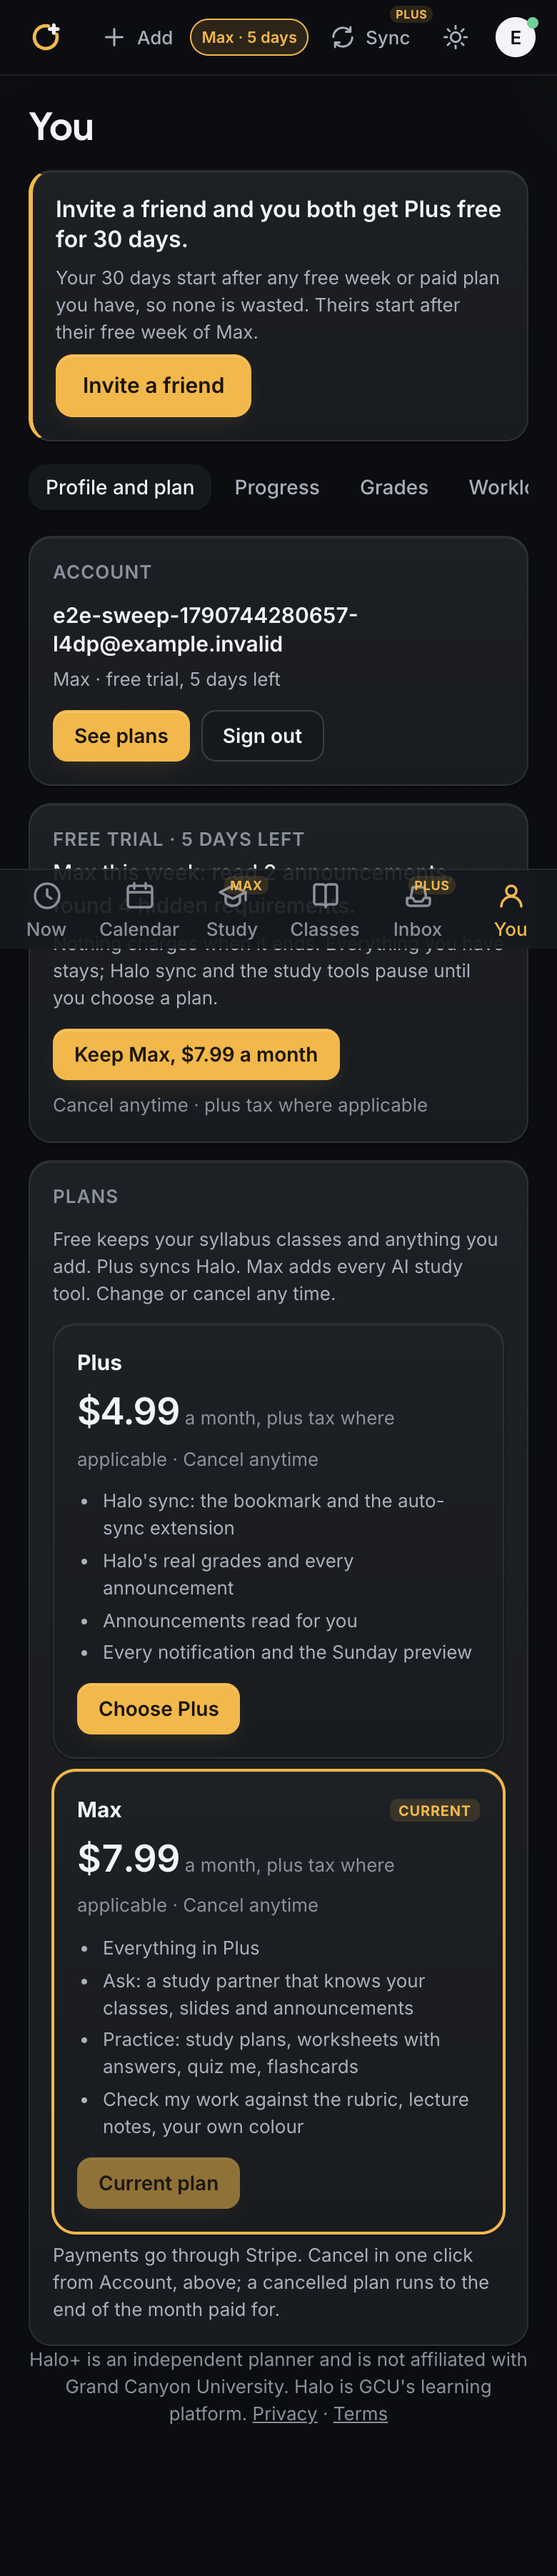
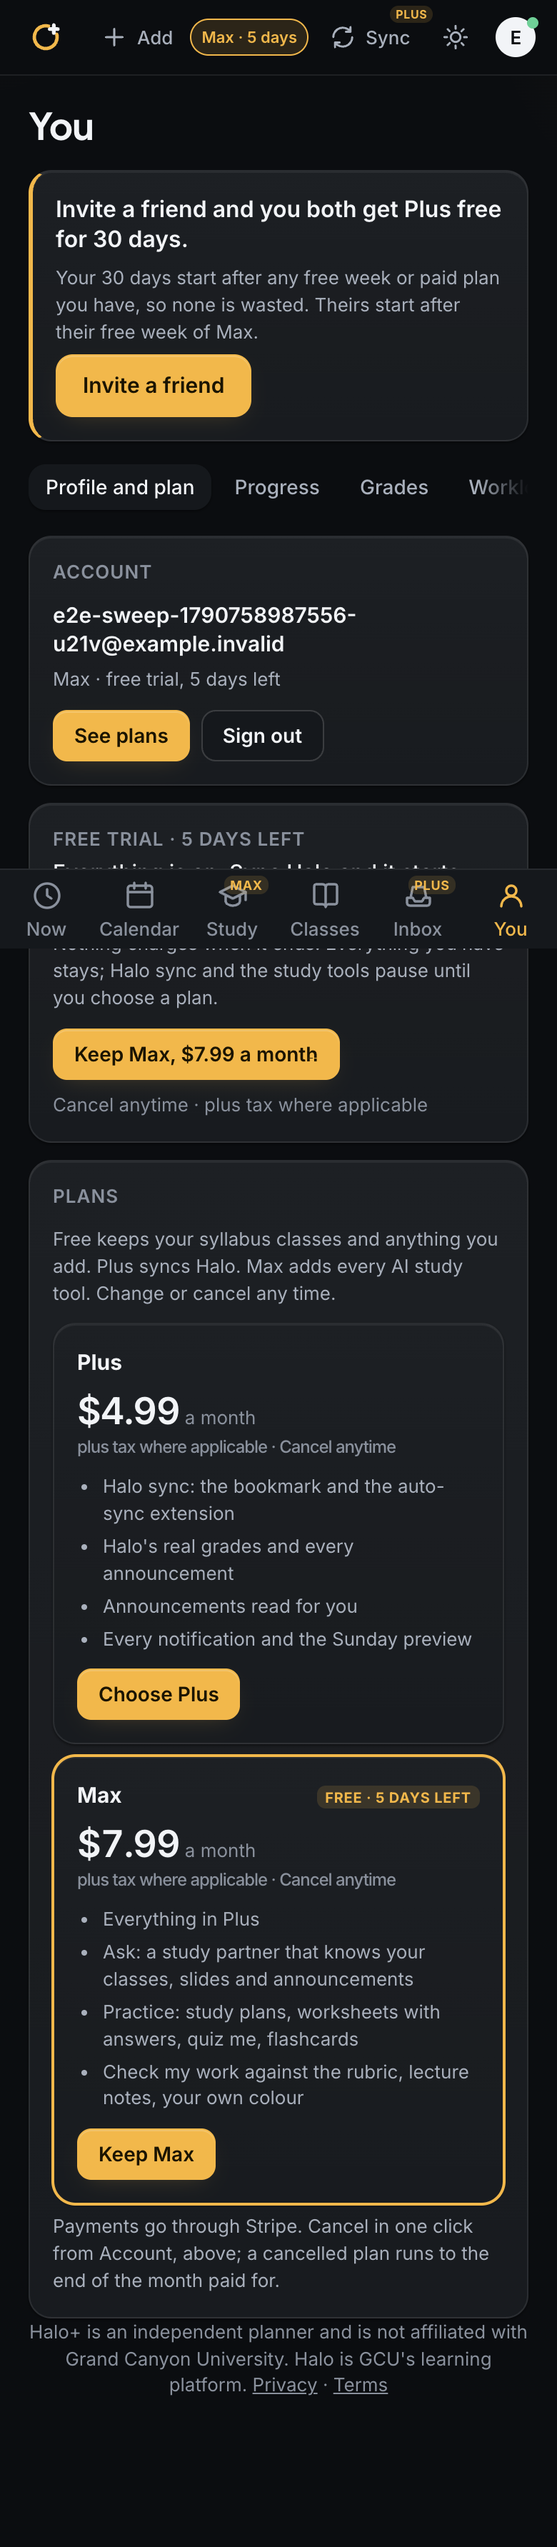
Loop 161: on the free week the Max plan says Free · N days left with Keep Max, not a greyed-out Current plan

diff --git a/src/views/You.tsx b/src/views/You.tsx
@@ -284,7 +284,11 @@ function UsageCard() {
 }
 
 function Plans({ current, highlight }: { current: Tier; highlight: Tier | null }) {
-  const { auth } = useAccount();
+  const { auth, profile } = useAccount();
+  // `current` is what the student has today, which on the free week (or free referral days) is not what they pay for:
+  // that plan is "Free trial", with Keep, never "Current plan" greyed out as if it were already bought.
+  const bought = profile?.tier ?? current;
+  const freeDays = trialDaysLeft(profile) ?? rewardDaysLeft(profile);
   const [interval, setInterval_] = useState<Interval>('month');
   const [busy, setBusy] = useState<string | null>(null);
   const [error, setError] = useState<string | null>(null);
@@ -312,22 +316,25 @@ function Plans({ current, highlight }: { current: Tier; highlight: Tier | null }
       <div className="plans">
         {paid.map((t) => {
           const adds = PLAN_LINES[t];
+          const owned = bought === t;
+          const onFree = !owned && current === t;
           return (
-            <div key={t} className="plan card" data-current={current === t} data-highlight={highlight === t}>
+            <div key={t} className="plan card" data-current={owned || onFree} data-highlight={highlight === t}>
               <div className="grade-head">
                 <b>{TIER_NAMES[t]}</b>
-                {current === t && (
+                {(owned || onFree) && (
                   <span className="plan-badge" data-tier={t}>
-                    Current
+                    {owned ? 'Current' : freeDays ? `Free · ${freeDays} day${freeDays === 1 ? '' : 's'} left` : 'Free for now'}
                   </span>
                 )}
               </div>
               <p className="plan-price">
                 {`$${(PRICES[t][interval] ?? PRICES[t].month).toFixed(2)}`}
-                <small>
-                  {' '}
-                  {interval === 'month' ? 'a month' : 'a semester'}, {TAX_LINE} · {CANCEL_LINE}
-                </small>
+                <small> {interval === 'month' ? 'a month' : 'a semester'}</small>
+                {/* The terms on their own line: inline, they broke as "plus tax where / applicable" on a phone. */}
+                <span className="plan-terms">
+                  {TAX_LINE} · {CANCEL_LINE}
+                </span>
               </p>
               <ul>
                 {adds.map((l) => (
@@ -335,8 +342,8 @@ function Plans({ current, highlight }: { current: Tier; highlight: Tier | null }
                 ))}
               </ul>
               {ready ? (
-                <button type="button" className="btn small primary" disabled={busy !== null || current === t} onClick={() => void choose(t)}>
-                  {current === t ? 'Current plan' : busy === t ? 'Opening…' : `Choose ${TIER_NAMES[t]}`}
+                <button type="button" className="btn small primary" disabled={busy !== null || owned} onClick={() => void choose(t)}>
+                  {owned ? 'Current plan' : busy === t ? 'Opening…' : onFree ? `Keep ${TIER_NAMES[t]}` : `Choose ${TIER_NAMES[t]}`}
                 </button>
               ) : (
                 <a className="btn small primary" href="#/you">

diff --git a/src/styles/base.css b/src/styles/base.css
@@ -5782,6 +5782,12 @@ a.hero-chip:hover {
   font-weight: 500;
   color: var(--ink-3);
 }
+.plan-terms {
+  display: block;
+  font: 500 12px/1.4 var(--font-body);
+  color: var(--ink-3);
+  margin-top: 2px;
+}
 .plan ul {
   margin: 8px 0 10px;
   padding-left: 18px;

diff --git a/LOOP_LOG.md b/LOOP_LOG.md
@@ -187,3 +187,4 @@ One line per change, newest last. Proposals that need George's approval are mark
 - 2026-09-30 · Loop 158 (overnight loop 1 of 10) · New student, first five minutes, walked through the real screens on desktop, phone and iPad (new scripts/e2e-first-five.mjs: landing → Sign up → email and password form → the fifteen seconds → gift → connect Halo → first sync → payoff → morning note → Home Screen → tour → Now and every tab; screens to docs/screens/first-five/, no console errors). Biggest problem: after the four-stop tour, a student on the welcome gift got three more screens ("Welcome to Max", pick a colour, the next quiz) before ever reaching Now — about fourteen screens in, repeating what the gift screen and the payoff had just said. Finishing onboarding on the gift now marks that welcome seen (it still shows after a real paid upgrade; the colour is under You, Display), and the App never shows it while the plan is still being confirmed. Walkthrough on desk, phone and iPad: straight to Now after the tour.
 - 2026-09-30 · Loop 159 (overnight loop 2 of 10) · The payoff screen a new student sees right after the first sync said "Study plan for UNV Academic Integrity Quiz: About 40m, spread out: Fri · 45m": the sessions added up to more than the plan and "spread out" described one session. Cause: exam mode rounded every session up to a quarter hour, including the last (15 + 15 + 15 for a 40-minute quiz), and the first-day plan regrouped that padded 45. A session now never takes more than is left, the first-day plan never exceeds the study the test needs, and the line reads "One 40m session, on Fri." (or "About 1.5h in 3 sessions: …"; "today"/"tomorrow" in lower case). The session stays on the day before the test, not front-loaded to today. Also "Reading your announcements: 0 of 1. 0 found so far." now reads "Reading your announcements, 0 of 1…" (the count appears once something is found). New test: the first-day plan sums to exactly 25/40/70/100/135 minutes with no session under 15. Walked desk light and phone dark again, no console errors.
 - 2026-09-30 · Loop 160 (overnight loop 3 of 10) · Daily user on a phone, You → Grades (the full sweep, phone light, iPad dark, desk dark, 104 scenes): the grade cards were all monospace and broke apart at phone width: "B- (82.0%)" wrapped over two lines under the class name, the label "Graded so far" split into "GRADED SO / FAR", and "176.34 / 215" wrapped. The grade is now the app's display face with even-width digits, never wraps and sits right of the name; the four stats go two by two under 480 px; the stats, dates and "typed/Halo" are no longer monospace (only the score input keeps it). Also the phone tab bar is now solid like the top bar: see-through, the card scrolled under it read through the tab labels. Walked the trial ending too (scripts/e2e-frozen.mjs, updated for the trial-ended screen, the peek and the Plus button): Stay on Free → banner "Halo sync paused since Sep 28", a bookmark while paused counts without applying (181 → 181), Plus opens a live Stripe checkout for $4.99 a month subscription (read back with the live key, nothing paid). All pass.
+- 2026-09-30 · Loop 161 (overnight loop 4 of 10) · Upgrading during the free week, You → See plans: the Max card said "CURRENT" with a greyed-out "Current plan" button, as if the student had already bought it, and gave no way to keep Max from the plans (only the trial card above did). The card went by the plan in effect today, which on the free week (or free referral days) is Max. It now tells what is bought from what is free: the plan paid for stays "Current plan"; the free one is badged "Free · 5 days left" with an active "Keep Max" that opens checkout. Also each price's terms sit on their own line ("$4.99 a month" / "plus tax where applicable · Cancel anytime"); inline, they broke as "plus tax where / applicable" on a phone. scripts/e2e-tax-line.mjs still PASS (every price has the tax line); swept phone dark and desk light.
